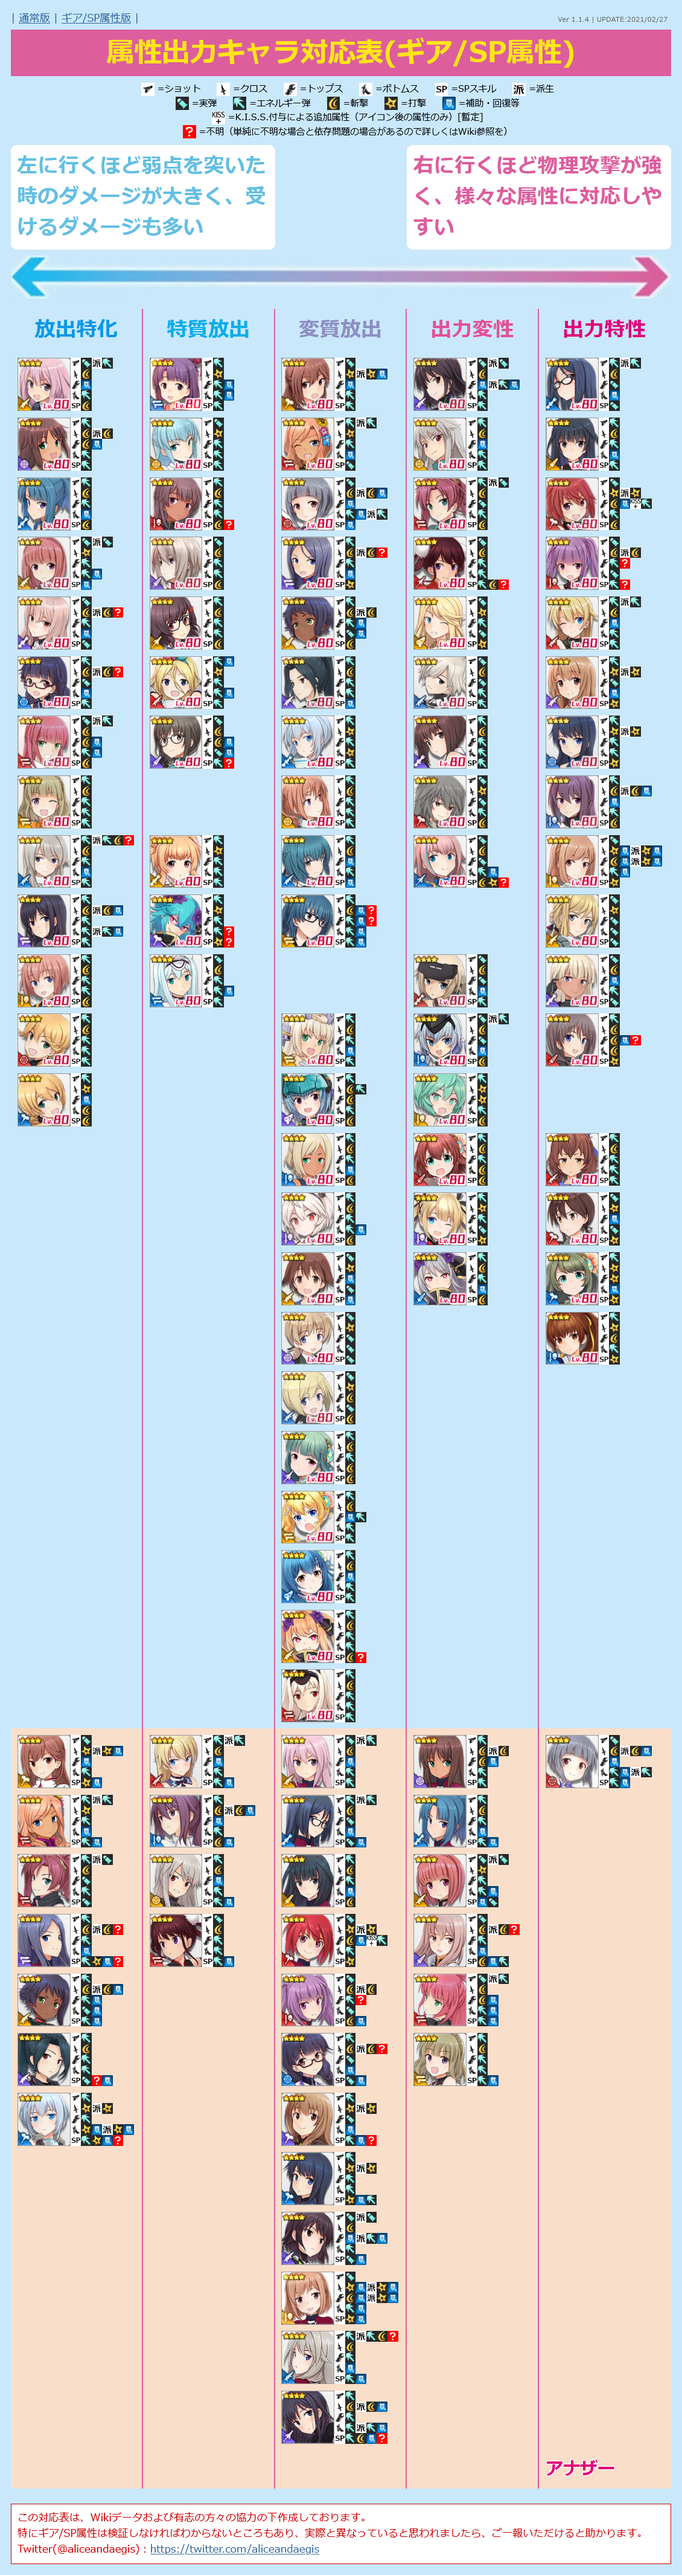
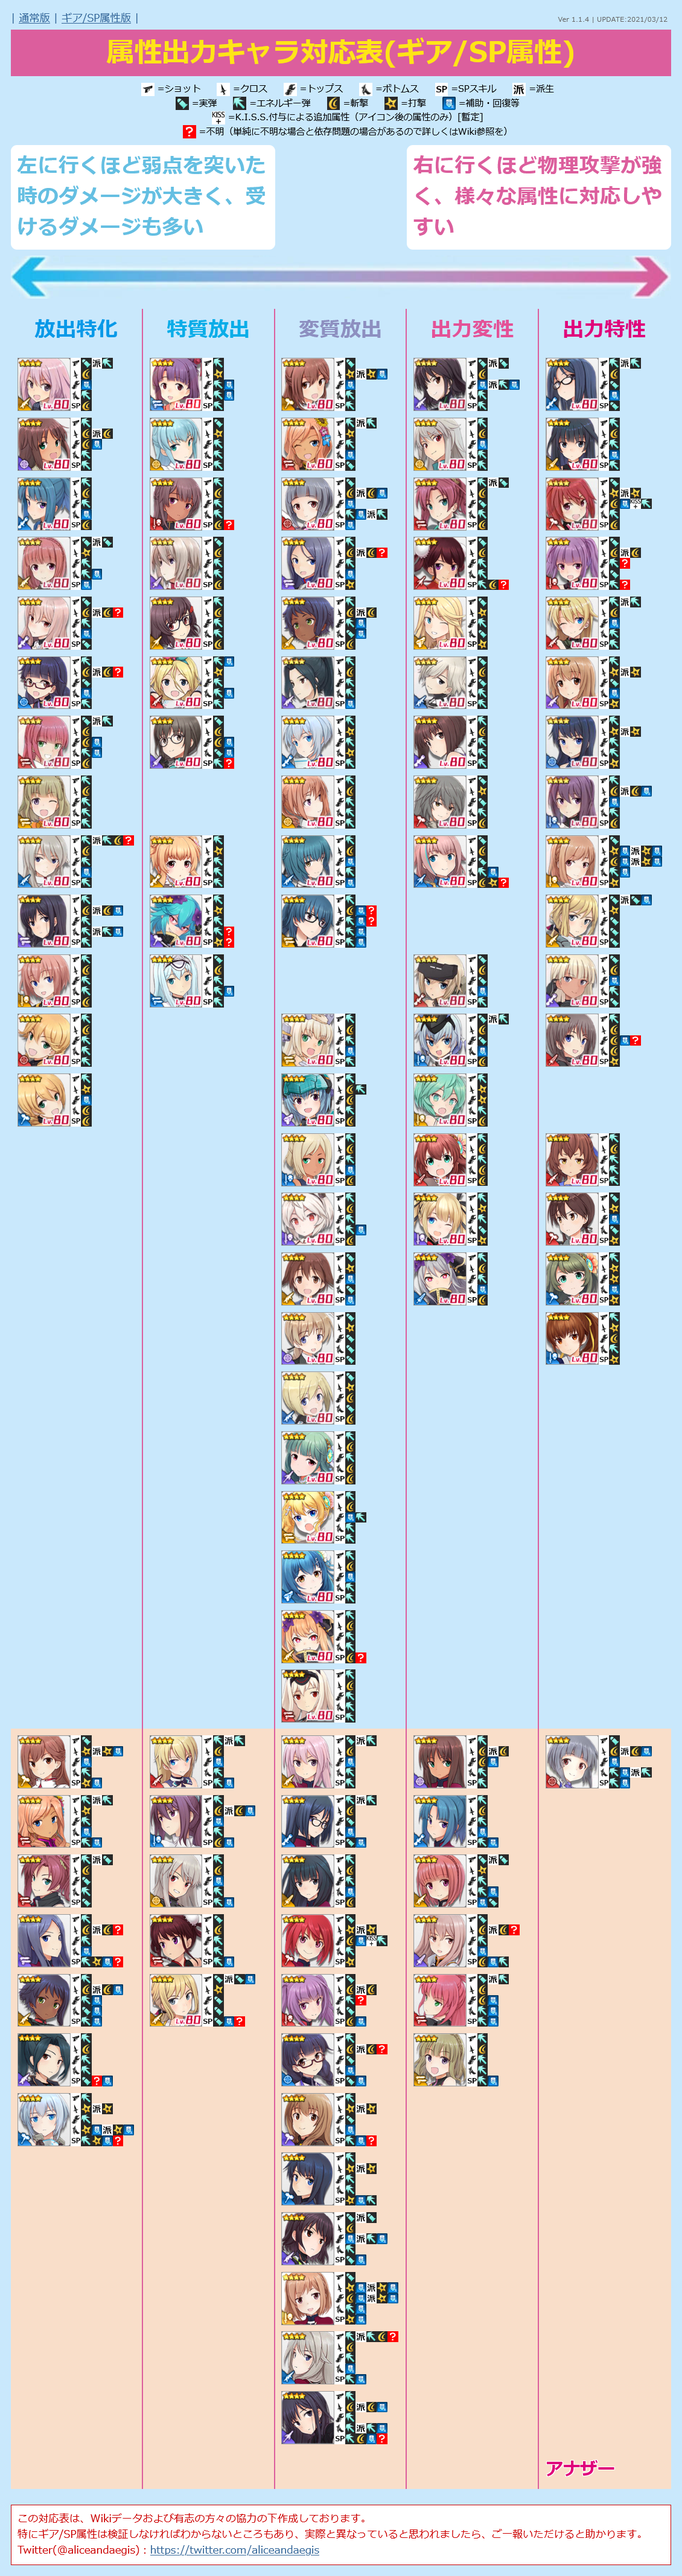
UPDATE charadata
・アナザー リタ・ヘンシェル/巧匠を追加

diff --git a/alice.html b/alice.html
@@ -12,7 +12,7 @@
   <script>
 
 /* 更新情報 必要に応じて書き換えてください */
-  var version = "Ver 1.1.4 | UPDATE:2021/02/27";
+  var version = "Ver 1.1.4 | UPDATE:2021/03/12";
 
 /*
   jsonファイルを外部に設置すると単にHTMLファイルを開いたときに動作しなくなるので当面はHTMLファイル内に
@@ -896,7 +896,7 @@
       "type": "5",
       "src": "normal-rita.png",
       "name": "リタ・ヘンシェル",
-      "equip1": "1",
+      "equip1": "1/15",
       "equip2": "4",
       "equip3": "1",
       "equip4": "1",
@@ -904,6 +904,20 @@
       "attr": "1",
       "link": "https://wikiwiki.jp/alicegear/%E3%83%AA%E3%82%BF%E3%83%BB%E3%83%98%E3%83%B3%E3%82%B7%E3%82%A7%E3%83%AB",
       "category": ""
+    },
+    {
+      "id": "31",
+      "type": "2",
+      "src": "another-rita.png",
+      "name": "リタ・ヘンシェル / 巧匠",
+      "equip1": "1/15",
+      "equip2": "4",
+      "equip3": "1",
+      "equip4": "1",
+      "sp": "15?",
+      "attr": "1",
+      "link": "https://wikiwiki.jp/alicegear/%E3%83%AA%E3%82%BF%E3%83%BB%E3%83%98%E3%83%B3%E3%82%B7%E3%82%A7%E3%83%AB%E5%B7%A7%E5%8C%A0",
+      "category": "10"
     },
     {
       "id": "32",
